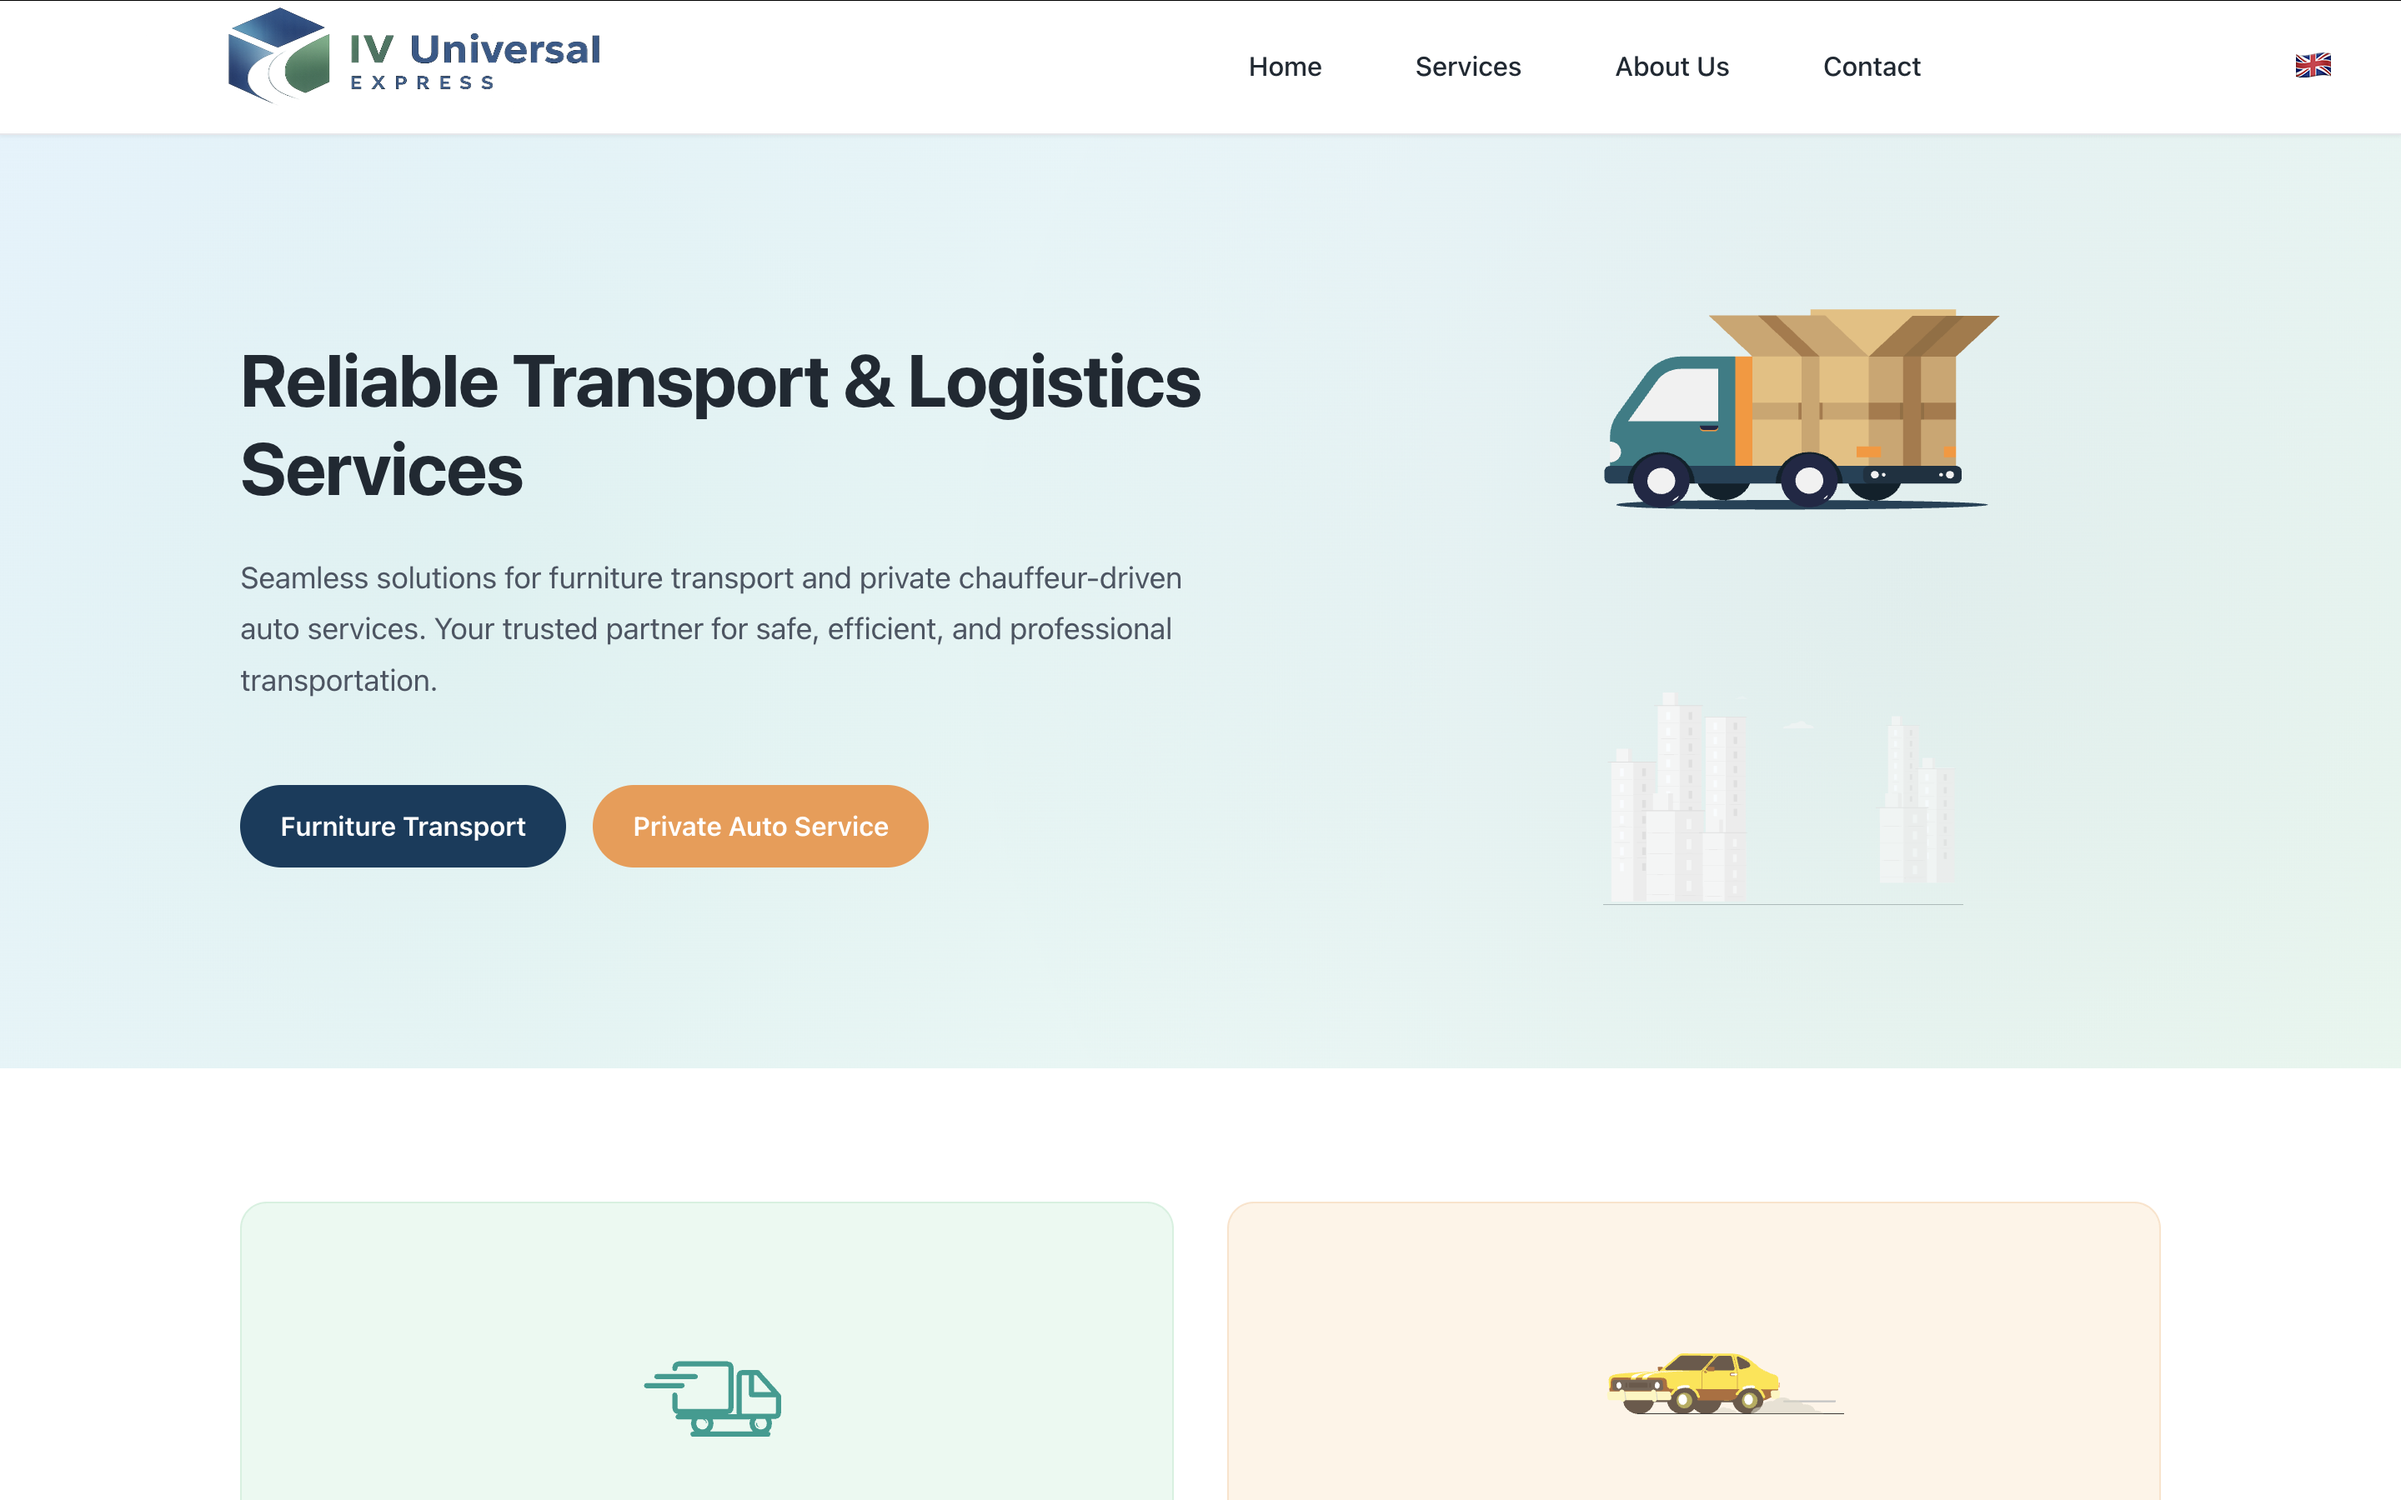
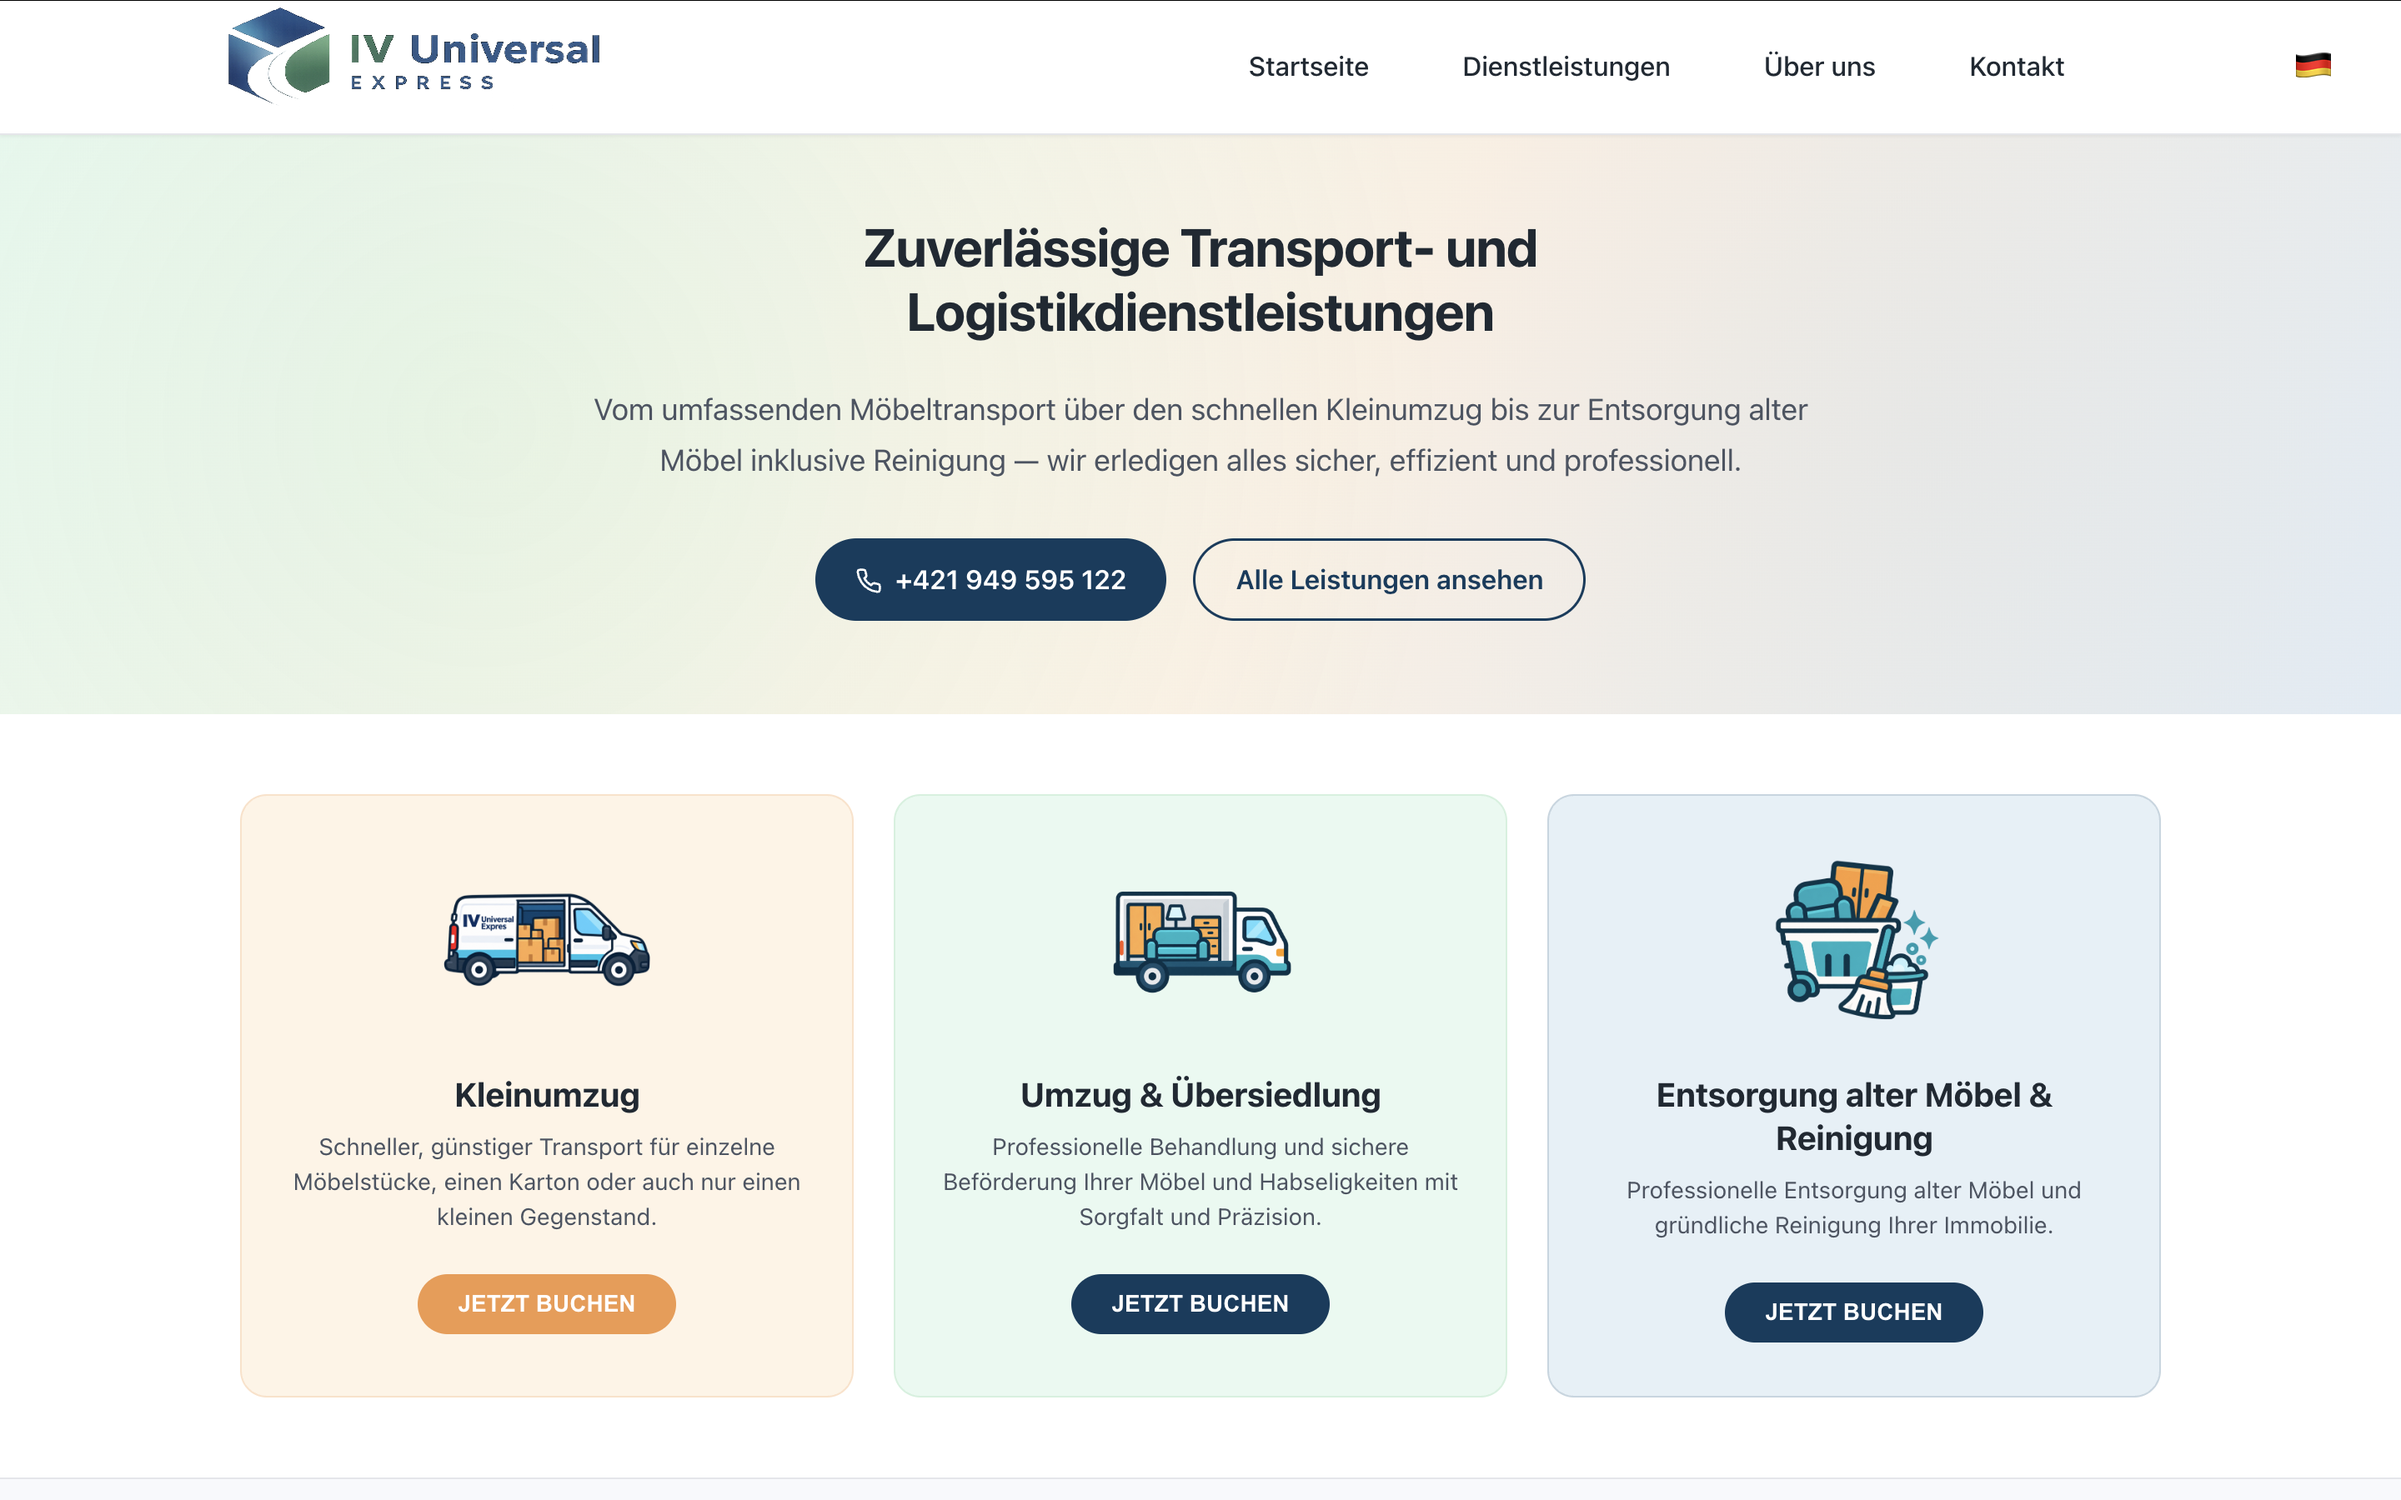
feat: update Ivunex project screenshot with cache-busting version

diff --git a/index.html b/index.html
@@ -3177,7 +3177,7 @@ if __name__ == "__main__":
               {[
                 {title:"Online Shop",sub:"React · Node.js · PostgreSQL",bg:"linear-gradient(135deg,#0f0f0f,#1a1a1a,#111)",img:"assets/projects/onlineshop.png",url:"projects/onlineshop.html"},
                 {title:"Brand Studio AI",sub:"Next.js · OpenAI · TypeScript",bg:"linear-gradient(135deg,#0d0d0d,#181818,#0f0f0f)",img:"assets/projects/ai-platform.png",url:"projects/ai-platform.html"},
-                {title:"Ivunex Logistics",sub:"React · Node.js · Stripe",bg:"linear-gradient(160deg,#111,#151520,#0d0d0d)",img:"assets/projects/ivunex.png",url:"projects/ivunex.html"},
+                {title:"Ivunex Logistics",sub:"React · Node.js · Stripe",bg:"linear-gradient(160deg,#111,#151520,#0d0d0d)",img:"assets/projects/ivunex.png?v=2",url:"projects/ivunex.html"},
                 {title:"FLY.CLOUD",sub:"Next.js · Socket.io · OpenAI",bg:"linear-gradient(135deg,#080d1a,#0d1a2e,#060c18)",img:"assets/projects/flycloud.png",url:"projects/flycloud.html"},
               ].map((p,i)=>(
                 <Anim key={i} delay={i*120}>

diff --git a/projects.html b/projects.html
@@ -297,7 +297,7 @@
     <div class="polo-card-wrap">
       <div class="polo-card-inner">
         <a href="projects/ivunex.html" class="proj-card-bg" style="background:linear-gradient(160deg,#111,#151520,#0d0d0d);display:flex;flex-direction:column;justify-content:flex-end;padding:32px;position:relative;overflow:hidden;text-decoration:none;">
-          <div class="proj-img-wrap"><img src="assets/projects/ivunex.png" alt="Ivunex Logistics"/></div>
+          <div class="proj-img-wrap"><img src="assets/projects/ivunex.png?v=2" alt="Ivunex Logistics"/></div>
           <div class="proj-img-overlay"></div>
           <div class="proj-img-content">
             <p class="proj-sub">React · Node.js · Stripe</p>

diff --git a/projects/ivunex.html b/projects/ivunex.html
@@ -372,7 +372,7 @@
 <!-- SCREENSHOT -->
 <div class="screenshot-wrap">
   <div class="screenshot-frame">
-    <img src="../assets/projects/ivunex.png" alt="IV Universal Express screenshot" />
+    <img src="../assets/projects/ivunex.png?v=2" alt="IV Universal Express screenshot" />
   </div>
 </div>
 
